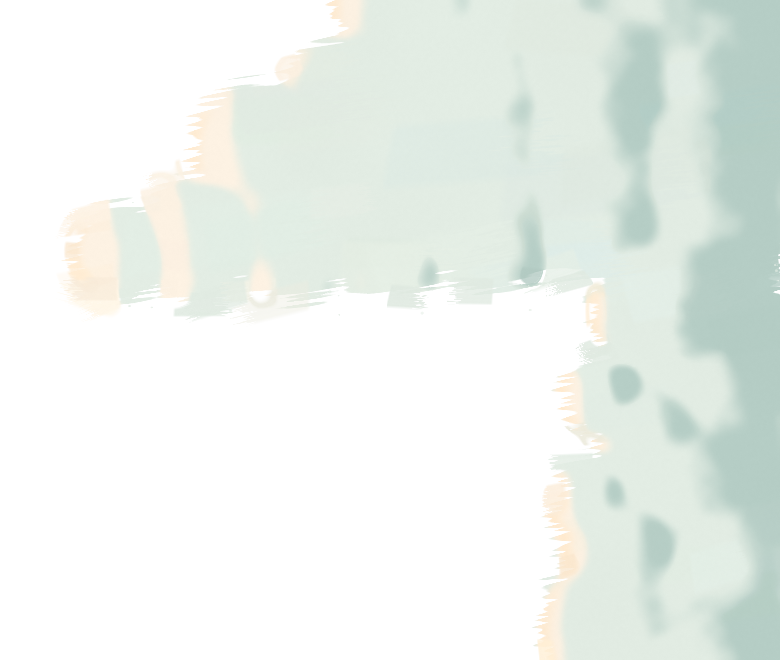
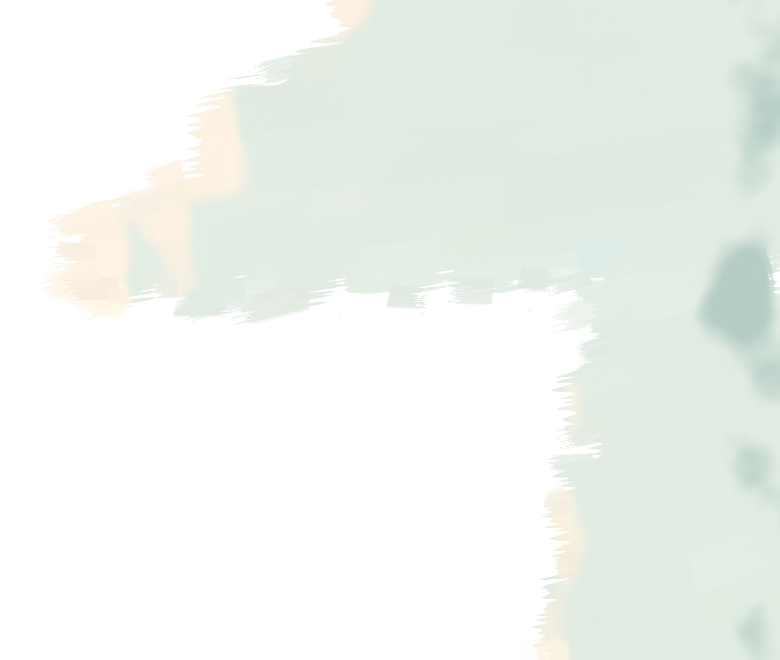
Painted test v3 (iteration, in progress)
Claude-Session: https://claude.ai/code/session_01YGLGMqbgdpycjemYZL3aoL

diff --git a/video/scripts/look/paint/paint.py b/video/scripts/look/paint/paint.py
@@ -674,6 +674,13 @@ def broad_paint(piece, rng, sil, tgt, light2, calm=None, ref=None):
     alpha = np.clip((sd + depth * (drag - 0.55) * 2.0 + b.get('edge_wobble', 10) * coarse + soft * 0.5) / soft, 0, 1)
     # inside the mass the paint is whole (only the rim breaks up)
     alpha = np.maximum(alpha, np.clip((sd - depth * 1.2) / 4, 0, 1))
+    if ref is not None and b.get('crisp_colors'):
+        # parts that keep a clean edge (a trunk, a post): where the flat has one of these colours, no break-up
+        crisp = np.zeros((H, W), bool)
+        for hx in b['crisp_colors']:
+            crisp |= np.abs(ref - hex_rgb(hx)[None, None, :]).sum(-1) < 0.12
+        crisp = ndimage.binary_dilation(crisp, iterations=4)
+        alpha = np.where(crisp, np.clip((sd + 1.0) / 2.0, 0, 1), alpha)
     cv = Canvas(H, W)
     gentle = fbm(rng, H, W, b.get('vary_cell', 140), 3)
     base = shift(tgt, dL=b.get('vary', 0.006) * gentle)
